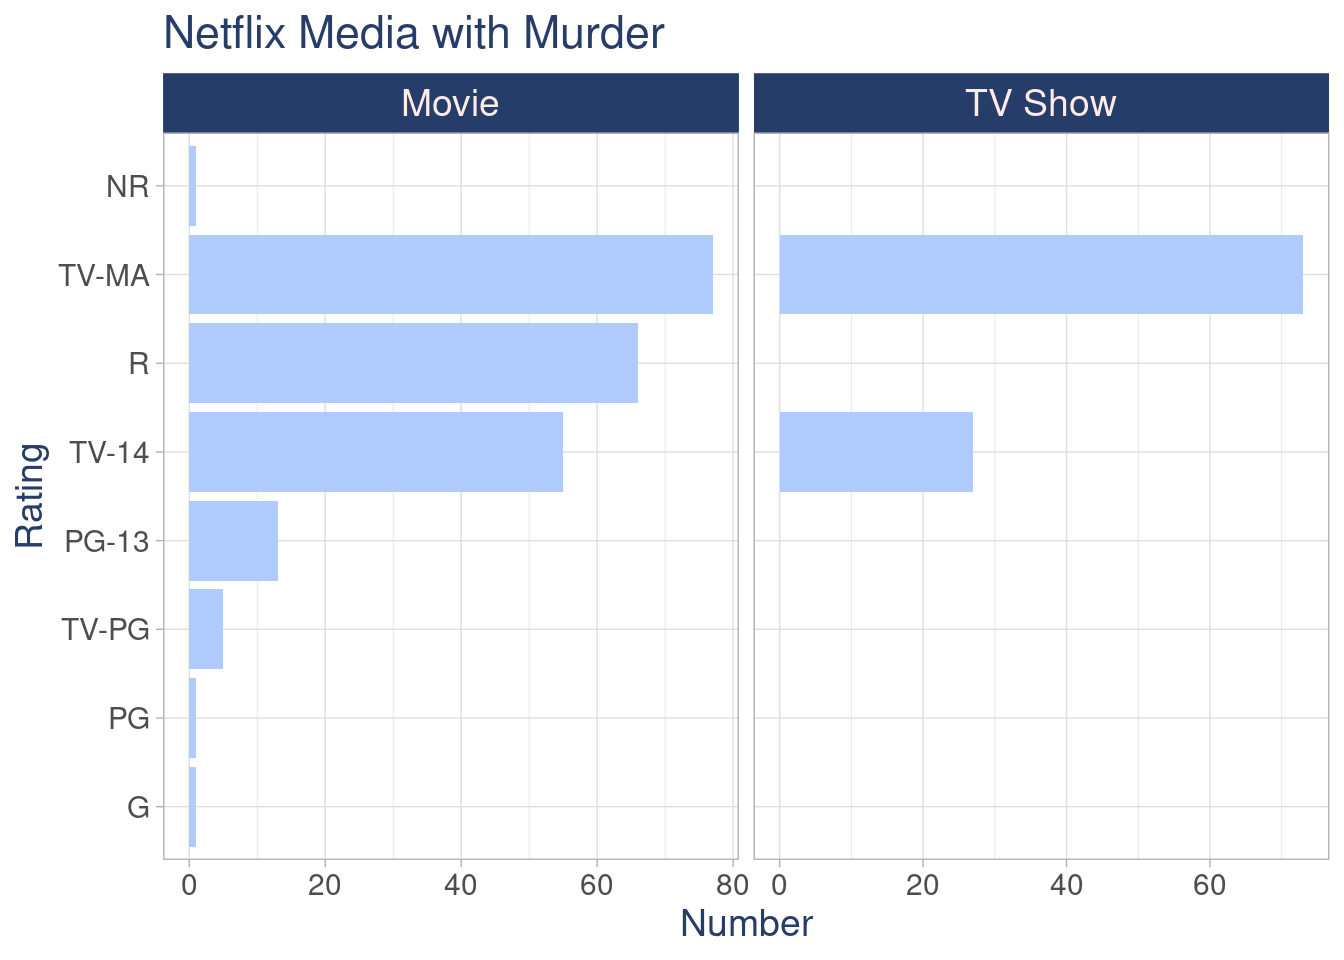
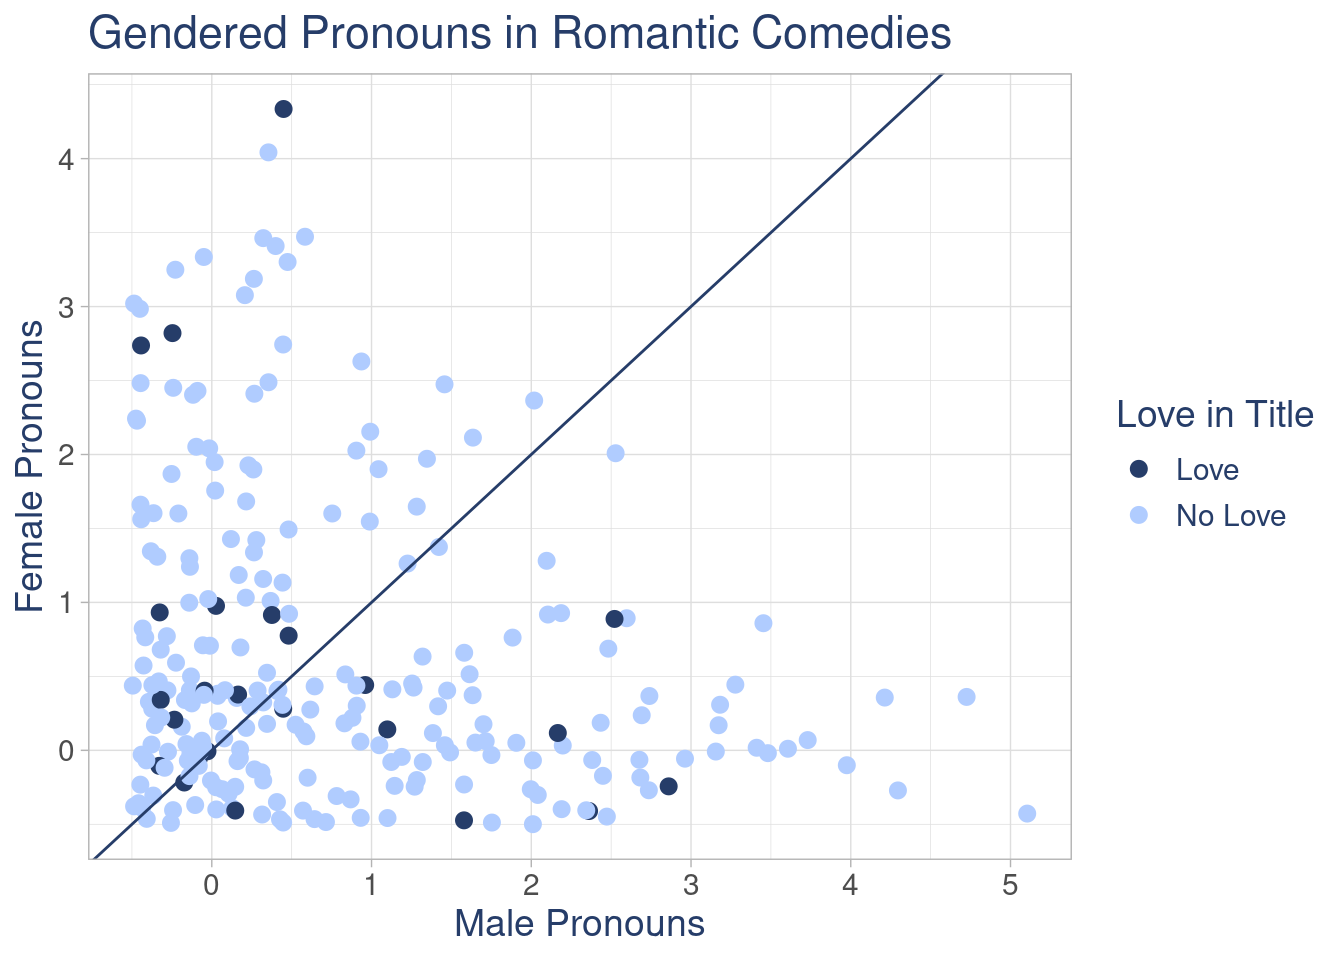
Hopefully final commit

diff --git a/docs/netflix.html b/docs/netflix.html
@@ -186,8 +186,9 @@ pre > code.sourceCode > span > a:first-child::before { text-decoration: underlin
 </header>
 
 
-<p>I want to see the average rating of shows and movies that have the word murder in their description, these could be horrors, thrillers, mystery etc.</p>
-<p>Make graph of this, use string extract all to find murder</p>
+<section id="netflix-media-with-murder" class="level3">
+<h3 class="anchored" data-anchor-id="netflix-media-with-murder">Netflix Media with Murder</h3>
+<p>For this graph, I wanted to look at the content ratings of movies and TV shows on Netflix that mention murder or killing in their descriptions. I filtered the data to include descriptions containing the words “murder,” “kill,” or “killed.” I then made a bar graph to compare how many movies and TV shows fall into each rating category. I was interested in seeing whether media that mentions murder tends to have more mature ratings and whether there is a difference between movies and TV shows.</p>
 <div class="cell">
 <details class="code-fold">
 <summary>Show Code</summary>
@@ -195,9 +196,10 @@ pre > code.sourceCode > span > a:first-child::before { text-decoration: underlin
 <span id="cb1-2"><a href="#cb1-2" aria-hidden="true" tabindex="-1"></a>netflix_titles <span class="ot">&lt;-</span> netflix_titles<span class="sc">|&gt;</span></span>
 <span id="cb1-3"><a href="#cb1-3" aria-hidden="true" tabindex="-1"></a>  <span class="fu">mutate</span>(<span class="at">rating_fct =</span> <span class="fu">fct_relevel</span>(<span class="fu">factor</span>(rating),  <span class="st">"G"</span>, <span class="st">"TV-Y"</span>, <span class="st">"TV-G"</span>, <span class="st">"TV-Y7"</span>, <span class="st">"TV-Y7-FV"</span>,</span>
 <span id="cb1-4"><a href="#cb1-4" aria-hidden="true" tabindex="-1"></a><span class="st">"PG"</span>, <span class="st">"TV-PG"</span>, <span class="st">"PG-13"</span>, <span class="st">"TV-14"</span>,</span>
-<span id="cb1-5"><a href="#cb1-5" aria-hidden="true" tabindex="-1"></a><span class="st">"R"</span>, <span class="st">"TV-MA"</span>, <span class="st">"NC-17"</span>))</span>
-<span id="cb1-6"><a href="#cb1-6" aria-hidden="true" tabindex="-1"></a>murder <span class="ot">&lt;-</span> netflix_titles<span class="sc">|&gt;</span></span>
-<span id="cb1-7"><a href="#cb1-7" aria-hidden="true" tabindex="-1"></a>  <span class="fu">filter</span>(<span class="fu">str_detect</span>(description, <span class="fu">regex</span>(<span class="st">"murder|</span><span class="sc">\\</span><span class="st">bkill(ed)?</span><span class="sc">\\</span><span class="st">b"</span>, <span class="at">ignore_case =</span> <span class="cn">TRUE</span>)))</span></code></pre></div><button title="Copy to Clipboard" class="code-copy-button"><i class="bi"></i></button></div>
+<span id="cb1-5"><a href="#cb1-5" aria-hidden="true" tabindex="-1"></a><span class="st">"R"</span>, <span class="st">"TV-MA"</span>, <span class="st">"NC-17"</span>))<span class="sc">|&gt;</span></span>
+<span id="cb1-6"><a href="#cb1-6" aria-hidden="true" tabindex="-1"></a>  <span class="fu">mutate</span>( <span class="at">decade =</span> <span class="fu">floor</span>(release_year <span class="sc">/</span> <span class="dv">10</span>) <span class="sc">*</span> <span class="dv">10</span>)</span>
+<span id="cb1-7"><a href="#cb1-7" aria-hidden="true" tabindex="-1"></a>murder <span class="ot">&lt;-</span> netflix_titles<span class="sc">|&gt;</span></span>
+<span id="cb1-8"><a href="#cb1-8" aria-hidden="true" tabindex="-1"></a>  <span class="fu">filter</span>(<span class="fu">str_detect</span>(description, <span class="fu">regex</span>(<span class="st">"murder|</span><span class="sc">\\</span><span class="st">bkill(ed)?</span><span class="sc">\\</span><span class="st">b"</span>, <span class="at">ignore_case =</span> <span class="cn">TRUE</span>)))</span></code></pre></div><button title="Copy to Clipboard" class="code-copy-button"><i class="bi"></i></button></div>
 </details>
 </div>
 <div class="cell">
@@ -226,7 +228,10 @@ pre > code.sourceCode > span > a:first-child::before { text-decoration: underlin
 </div>
 </div>
 </div>
-<p>Rom com exploration</p>
+</section>
+<section id="american-comedies-by-decade" class="level3">
+<h3 class="anchored" data-anchor-id="american-comedies-by-decade">American Comedies by Decade</h3>
+<p>For this graph, I looked at American comedy movies on Netflix and which decades they were released in. I chose a list of famous comedy actors, including Adam Sandler, Jim Carrey, and Amy Pohler, and used their names to see which movies featured at least one of these actors. I then made a bar graph to compare the number of comedies released in each decade and how many featured someone from my list. I wanted to see whether famous comedy actors appeared more frequently in certain decades and how the number of American comedies changed over time.</p>
 <div class="cell">
 <details class="code-fold">
 <summary>Show Code</summary>
@@ -239,24 +244,27 @@ pre > code.sourceCode > span > a:first-child::before { text-decoration: underlin
 <span id="cb3-7"><a href="#cb3-7" aria-hidden="true" tabindex="-1"></a>  <span class="fu">mutate</span>(</span>
 <span id="cb3-8"><a href="#cb3-8" aria-hidden="true" tabindex="-1"></a>    <span class="at">famous_actor =</span> <span class="fu">str_detect</span>(</span>
 <span id="cb3-9"><a href="#cb3-9" aria-hidden="true" tabindex="-1"></a>      cast, <span class="st">"</span><span class="sc">\\</span><span class="st">b(Adam Sandler|Jim Carrey|Will Ferrell|Ben Stiller|Eddie Murphy|Steve Carell|Seth Rogen|Jonah Hill|Paul Rudd|Kevin Hart|Jack Black|Melissa McCarthy|Kristen Wiig|Tina Fey|Amy Poehler|Maya Rudolph|Tiffany Haddish|Jennifer Aniston|Sandra Bullock|Julia Roberts)(?=,|$)"</span></span>
-<span id="cb3-10"><a href="#cb3-10" aria-hidden="true" tabindex="-1"></a>      ))<span class="sc">|&gt;</span></span>
-<span id="cb3-11"><a href="#cb3-11" aria-hidden="true" tabindex="-1"></a>   <span class="fu">mutate</span>( <span class="at">decade =</span> <span class="fu">floor</span>(release_year <span class="sc">/</span> <span class="dv">10</span>) <span class="sc">*</span> <span class="dv">10</span>)</span>
-<span id="cb3-12"><a href="#cb3-12" aria-hidden="true" tabindex="-1"></a>    </span>
-<span id="cb3-13"><a href="#cb3-13" aria-hidden="true" tabindex="-1"></a>  </span>
-<span id="cb3-14"><a href="#cb3-14" aria-hidden="true" tabindex="-1"></a>  comedies <span class="sc">|&gt;</span></span>
-<span id="cb3-15"><a href="#cb3-15" aria-hidden="true" tabindex="-1"></a>  <span class="fu">ggplot</span>(<span class="fu">aes</span>(<span class="at">x =</span> decade, <span class="at">fill =</span> famous_actor)) <span class="sc">+</span></span>
-<span id="cb3-16"><a href="#cb3-16" aria-hidden="true" tabindex="-1"></a>  <span class="fu">geom_bar</span>() <span class="sc">+</span></span>
-<span id="cb3-17"><a href="#cb3-17" aria-hidden="true" tabindex="-1"></a>  <span class="fu">scale_fill_manual</span>(</span>
-<span id="cb3-18"><a href="#cb3-18" aria-hidden="true" tabindex="-1"></a>    <span class="at">values =</span> <span class="fu">c</span>(<span class="st">"TRUE"</span> <span class="ot">=</span> <span class="st">"#263D69"</span>, <span class="st">"FALSE"</span> <span class="ot">=</span> <span class="st">"#B0CCFF"</span>),</span>
-<span id="cb3-19"><a href="#cb3-19" aria-hidden="true" tabindex="-1"></a>    <span class="at">labels =</span> <span class="fu">c</span>(<span class="st">"FALSE"</span> <span class="ot">=</span> <span class="st">"No"</span>, <span class="st">"TRUE"</span> <span class="ot">=</span> <span class="st">"Yes"</span>),</span>
-<span id="cb3-20"><a href="#cb3-20" aria-hidden="true" tabindex="-1"></a>    <span class="at">name =</span> <span class="st">"Contains Famous Comedy Actor"</span></span>
-<span id="cb3-21"><a href="#cb3-21" aria-hidden="true" tabindex="-1"></a>  ) <span class="sc">+</span></span>
-<span id="cb3-22"><a href="#cb3-22" aria-hidden="true" tabindex="-1"></a>  <span class="fu">labs</span>(</span>
-<span id="cb3-23"><a href="#cb3-23" aria-hidden="true" tabindex="-1"></a>    <span class="at">title =</span> <span class="st">"American Comedies by Release Year"</span>,</span>
-<span id="cb3-24"><a href="#cb3-24" aria-hidden="true" tabindex="-1"></a>    <span class="at">x =</span> <span class="st">"Decade"</span>,</span>
-<span id="cb3-25"><a href="#cb3-25" aria-hidden="true" tabindex="-1"></a>    <span class="at">y =</span> <span class="st">"Number of Movies"</span></span>
-<span id="cb3-26"><a href="#cb3-26" aria-hidden="true" tabindex="-1"></a>  ) <span class="sc">+</span></span>
-<span id="cb3-27"><a href="#cb3-27" aria-hidden="true" tabindex="-1"></a>  <span class="fu">theme_minimal</span>(<span class="at">base_family =</span> <span class="st">"Helvetica Neue"</span>)</span></code></pre></div><button title="Copy to Clipboard" class="code-copy-button"><i class="bi"></i></button></div>
+<span id="cb3-10"><a href="#cb3-10" aria-hidden="true" tabindex="-1"></a>      ))</span>
+<span id="cb3-11"><a href="#cb3-11" aria-hidden="true" tabindex="-1"></a>    </span>
+<span id="cb3-12"><a href="#cb3-12" aria-hidden="true" tabindex="-1"></a>  </span>
+<span id="cb3-13"><a href="#cb3-13" aria-hidden="true" tabindex="-1"></a>  comedies <span class="sc">|&gt;</span></span>
+<span id="cb3-14"><a href="#cb3-14" aria-hidden="true" tabindex="-1"></a>  <span class="fu">ggplot</span>(<span class="fu">aes</span>(<span class="at">x =</span> decade, <span class="at">fill =</span> famous_actor)) <span class="sc">+</span></span>
+<span id="cb3-15"><a href="#cb3-15" aria-hidden="true" tabindex="-1"></a>  <span class="fu">geom_bar</span>() <span class="sc">+</span></span>
+<span id="cb3-16"><a href="#cb3-16" aria-hidden="true" tabindex="-1"></a>  <span class="fu">scale_fill_manual</span>(</span>
+<span id="cb3-17"><a href="#cb3-17" aria-hidden="true" tabindex="-1"></a>    <span class="at">values =</span> <span class="fu">c</span>(<span class="st">"TRUE"</span> <span class="ot">=</span> <span class="st">"#263D69"</span>, <span class="st">"FALSE"</span> <span class="ot">=</span> <span class="st">"#B0CCFF"</span>),</span>
+<span id="cb3-18"><a href="#cb3-18" aria-hidden="true" tabindex="-1"></a>    <span class="at">labels =</span> <span class="fu">c</span>(<span class="st">"FALSE"</span> <span class="ot">=</span> <span class="st">"No"</span>, <span class="st">"TRUE"</span> <span class="ot">=</span> <span class="st">"Yes"</span>),</span>
+<span id="cb3-19"><a href="#cb3-19" aria-hidden="true" tabindex="-1"></a>    <span class="at">name =</span> <span class="st">"Contains Famous Comedy Actor"</span></span>
+<span id="cb3-20"><a href="#cb3-20" aria-hidden="true" tabindex="-1"></a>  ) <span class="sc">+</span></span>
+<span id="cb3-21"><a href="#cb3-21" aria-hidden="true" tabindex="-1"></a>  <span class="fu">labs</span>(</span>
+<span id="cb3-22"><a href="#cb3-22" aria-hidden="true" tabindex="-1"></a>    <span class="at">title =</span> <span class="st">"American Comedies by Release Year"</span>,</span>
+<span id="cb3-23"><a href="#cb3-23" aria-hidden="true" tabindex="-1"></a>    <span class="at">x =</span> <span class="st">"Decade"</span>,</span>
+<span id="cb3-24"><a href="#cb3-24" aria-hidden="true" tabindex="-1"></a>    <span class="at">y =</span> <span class="st">"Number of Movies"</span></span>
+<span id="cb3-25"><a href="#cb3-25" aria-hidden="true" tabindex="-1"></a>  ) <span class="sc">+</span></span>
+<span id="cb3-26"><a href="#cb3-26" aria-hidden="true" tabindex="-1"></a>  <span class="fu">theme_minimal</span>(<span class="at">base_family =</span> <span class="st">"Helvetica Neue"</span>)<span class="sc">+</span></span>
+<span id="cb3-27"><a href="#cb3-27" aria-hidden="true" tabindex="-1"></a><span class="fu">theme_light</span>()<span class="sc">+</span></span>
+<span id="cb3-28"><a href="#cb3-28" aria-hidden="true" tabindex="-1"></a><span class="fu">theme</span>(</span>
+<span id="cb3-29"><a href="#cb3-29" aria-hidden="true" tabindex="-1"></a>  <span class="at">text =</span> <span class="fu">element_text</span>(<span class="at">size =</span> <span class="dv">9</span>, <span class="at">color =</span> <span class="st">"#263D69"</span>)</span>
+<span id="cb3-30"><a href="#cb3-30" aria-hidden="true" tabindex="-1"></a>)</span></code></pre></div><button title="Copy to Clipboard" class="code-copy-button"><i class="bi"></i></button></div>
 </details>
 <div class="cell-output-display">
 <div>
@@ -266,9 +274,55 @@ pre > code.sourceCode > span > a:first-child::before { text-decoration: underlin
 </div>
 </div>
 </div>
-<p>I want to create a new variable to see if the actors are in using lookaround, and string detect</p>
+</section>
+<section id="romantic-comedy" class="level3">
+<h3 class="anchored" data-anchor-id="romantic-comedy">Romantic Comedy</h3>
+<p>For this graph, I made a data table of all movies that were listed in the categories “Romantic Movies” and “Comedies” to find the romcoms, I then looked in the descriptions of the movie to see which used male pronouns and female pronouns. I also looked at the titles to see which one used some variation of the word love.</p>
+<div class="cell">
+<details class="code-fold">
+<summary>Show Code</summary>
+<div class="code-copy-outer-scaffold"><div class="sourceCode cell-code" id="cb4"><pre class="sourceCode r code-with-copy"><code class="sourceCode r"><span id="cb4-1"><a href="#cb4-1" aria-hidden="true" tabindex="-1"></a>romcom <span class="ot">&lt;-</span> netflix_titles<span class="sc">|&gt;</span></span>
+<span id="cb4-2"><a href="#cb4-2" aria-hidden="true" tabindex="-1"></a>  <span class="fu">filter</span>(type <span class="sc">==</span> <span class="st">"Movie"</span>, <span class="fu">str_detect</span>(listed_in, <span class="st">"Comedies"</span>))<span class="sc">|&gt;</span></span>
+<span id="cb4-3"><a href="#cb4-3" aria-hidden="true" tabindex="-1"></a>  <span class="fu">filter</span>(<span class="fu">str_detect</span>(listed_in, <span class="st">"Romantic Movies"</span>))<span class="sc">|&gt;</span></span>
+<span id="cb4-4"><a href="#cb4-4" aria-hidden="true" tabindex="-1"></a> <span class="fu">mutate</span>(<span class="at">female =</span> <span class="fu">str_count</span>(description, <span class="fu">regex</span>(<span class="st">"</span><span class="sc">\\</span><span class="st">b(she|her|hers)</span><span class="sc">\\</span><span class="st">b"</span>, <span class="at">ignore_case =</span> <span class="cn">TRUE</span>))) <span class="sc">|&gt;</span></span>
+<span id="cb4-5"><a href="#cb4-5" aria-hidden="true" tabindex="-1"></a><span class="fu">mutate</span>(<span class="at">male =</span> <span class="fu">str_count</span>(description, <span class="fu">regex</span>(<span class="st">"</span><span class="sc">\\</span><span class="st">b(him|he|his)</span><span class="sc">\\</span><span class="st">b"</span>, <span class="at">ignore_case =</span> <span class="cn">TRUE</span>)))<span class="sc">|&gt;</span></span>
+<span id="cb4-6"><a href="#cb4-6" aria-hidden="true" tabindex="-1"></a><span class="fu">mutate</span>(<span class="at">love =</span> <span class="fu">str_extract</span>(title, <span class="fu">regex</span>(<span class="st">"</span><span class="sc">\\</span><span class="st">b(love|lover|loved)</span><span class="sc">\\</span><span class="st">b"</span>, <span class="at">ignore_case =</span> <span class="cn">TRUE</span>))) <span class="sc">|&gt;</span></span>
+<span id="cb4-7"><a href="#cb4-7" aria-hidden="true" tabindex="-1"></a><span class="fu">mutate</span>(<span class="at">love =</span> <span class="fu">if_else</span>(<span class="sc">!</span><span class="fu">is.na</span>(love), <span class="st">"Love"</span>, <span class="st">"No Love"</span>))</span>
+<span id="cb4-8"><a href="#cb4-8" aria-hidden="true" tabindex="-1"></a></span>
+<span id="cb4-9"><a href="#cb4-9" aria-hidden="true" tabindex="-1"></a>  romcom <span class="sc">|&gt;</span></span>
+<span id="cb4-10"><a href="#cb4-10" aria-hidden="true" tabindex="-1"></a>  <span class="fu">ggplot</span>(<span class="fu">aes</span>(<span class="at">x =</span> male, <span class="at">y =</span> female, <span class="at">color =</span> love)) <span class="sc">+</span></span>
+<span id="cb4-11"><a href="#cb4-11" aria-hidden="true" tabindex="-1"></a>  <span class="fu">geom_jitter</span>(<span class="at">width =</span> <span class="fl">0.5</span>, <span class="at">height =</span> <span class="fl">0.5</span>, <span class="at">size =</span> <span class="fl">2.5</span>) <span class="sc">+</span></span>
+<span id="cb4-12"><a href="#cb4-12" aria-hidden="true" tabindex="-1"></a>  <span class="fu">geom_abline</span>(<span class="at">slope =</span> <span class="dv">1</span>, <span class="at">intercept =</span> <span class="dv">0</span>, <span class="at">color =</span> <span class="st">"#263D69"</span>) <span class="sc">+</span></span>
+<span id="cb4-13"><a href="#cb4-13" aria-hidden="true" tabindex="-1"></a>  <span class="fu">scale_color_manual</span>(</span>
+<span id="cb4-14"><a href="#cb4-14" aria-hidden="true" tabindex="-1"></a>    <span class="at">values =</span> <span class="fu">c</span>(<span class="st">"Love"</span> <span class="ot">=</span> <span class="st">"#263D69"</span>, <span class="st">"No Love"</span> <span class="ot">=</span> <span class="st">"#B0CCFF"</span>),</span>
+<span id="cb4-15"><a href="#cb4-15" aria-hidden="true" tabindex="-1"></a>    <span class="at">name =</span> <span class="st">"Love in Title"</span></span>
+<span id="cb4-16"><a href="#cb4-16" aria-hidden="true" tabindex="-1"></a>  ) <span class="sc">+</span></span>
+<span id="cb4-17"><a href="#cb4-17" aria-hidden="true" tabindex="-1"></a>  <span class="fu">labs</span>(</span>
+<span id="cb4-18"><a href="#cb4-18" aria-hidden="true" tabindex="-1"></a>    <span class="at">title =</span> <span class="st">"Gendered Pronouns in Romantic Comedies"</span>,</span>
+<span id="cb4-19"><a href="#cb4-19" aria-hidden="true" tabindex="-1"></a>    <span class="at">x =</span> <span class="st">"Male Pronouns"</span>,</span>
+<span id="cb4-20"><a href="#cb4-20" aria-hidden="true" tabindex="-1"></a>    <span class="at">y =</span> <span class="st">"Female Pronouns"</span></span>
+<span id="cb4-21"><a href="#cb4-21" aria-hidden="true" tabindex="-1"></a>  ) <span class="sc">+</span></span>
+<span id="cb4-22"><a href="#cb4-22" aria-hidden="true" tabindex="-1"></a>  <span class="fu">theme_light</span>(<span class="at">base_family =</span> <span class="st">"Helvetica Neue"</span>) <span class="sc">+</span></span>
+<span id="cb4-23"><a href="#cb4-23" aria-hidden="true" tabindex="-1"></a>  <span class="fu">theme</span>(</span>
+<span id="cb4-24"><a href="#cb4-24" aria-hidden="true" tabindex="-1"></a>    <span class="at">text =</span> <span class="fu">element_text</span>(<span class="at">size =</span> <span class="dv">14</span>, <span class="at">color =</span> <span class="st">"#263D69"</span>)</span>
+<span id="cb4-25"><a href="#cb4-25" aria-hidden="true" tabindex="-1"></a>  )</span></code></pre></div><button title="Copy to Clipboard" class="code-copy-button"><i class="bi"></i></button></div>
+</details>
+<div class="cell-output-display">
+<div>
+<figure class="figure">
+<p><img src="netflix_files/figure-html/unnamed-chunk-5-1.png" class="img-fluid figure-img" width="672"></p>
+</figure>
+</div>
+</div>
+</div>
+</section>
+<section id="about-the-data" class="level3">
+<h3 class="anchored" data-anchor-id="about-the-data">About the Data</h3>
+<p>For this project, I used the Netflix Titles dataset from TidyTuesday (April 20, 2021). The original dataset was shared on Kaggle by Shivam Bansal and contains information about movies and TV shows available on Netflix, including their titles, genres, cast members, release years, content ratings, and descriptions.</p>
+<p><strong>Source:</strong> <a href="https://github.com/rfordatascience/tidytuesday/blob/main/data/2021/2021-04-20/readme.md">TidyTuesday Netflix Dataset</a></p>
 
 
+</section>
 
 </main> <!-- /main -->
 <script id="quarto-html-after-body" type="application/javascript">
